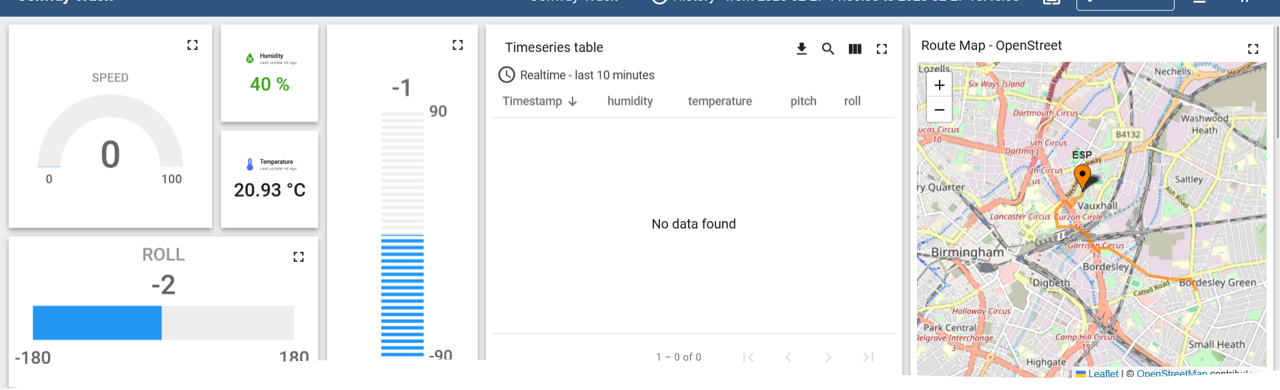
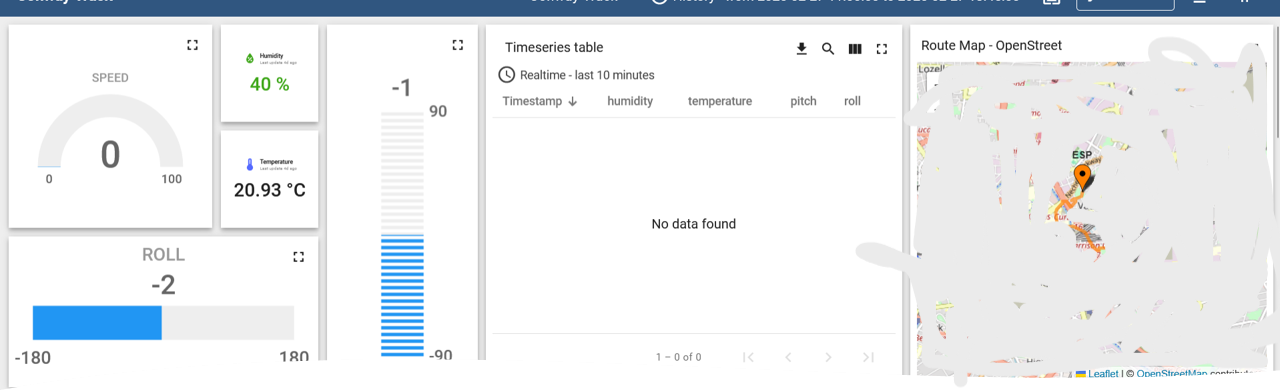
Update ThingsBoard screenshot and fix photo sizing
Images now scale to their natural aspect ratio (height: auto, capped by
max-height) instead of being forced into a fixed-height box — landscape
screenshots display at full size, portrait photos no longer look
squeezed/pillarboxed.

Changed region(s): [[0.7188, 0.1538, 1.0, 0.9846]]

diff --git a/style.css b/style.css
@@ -397,11 +397,12 @@ a { color: inherit; }
 .photo img {
   display: block;
   width: 100%;
-  height: 320px;
+  height: auto;
+  max-height: 480px;
   object-fit: contain;
   background: color-mix(in srgb, var(--surface) 92%, var(--ink) 8%);
 }
-.photo-hero img { height: 420px; }
+.photo-hero img { max-height: 560px; }
 .photo figcaption {
   padding: 12px 16px;
   font-size: 0.85rem;
@@ -413,12 +414,13 @@ a { color: inherit; }
   grid-template-columns: repeat(auto-fit, minmax(260px, 1fr));
   gap: 20px;
   margin-top: 20px;
+  align-items: start;
 }
 .photo-grid .photo { margin-top: 0; }
 
 @media (max-width: 640px) {
-  .photo img { height: 220px; }
-  .photo-hero img { height: 260px; }
+  .photo img { max-height: 320px; }
+  .photo-hero img { max-height: 360px; }
 }
 
 /* Print */
